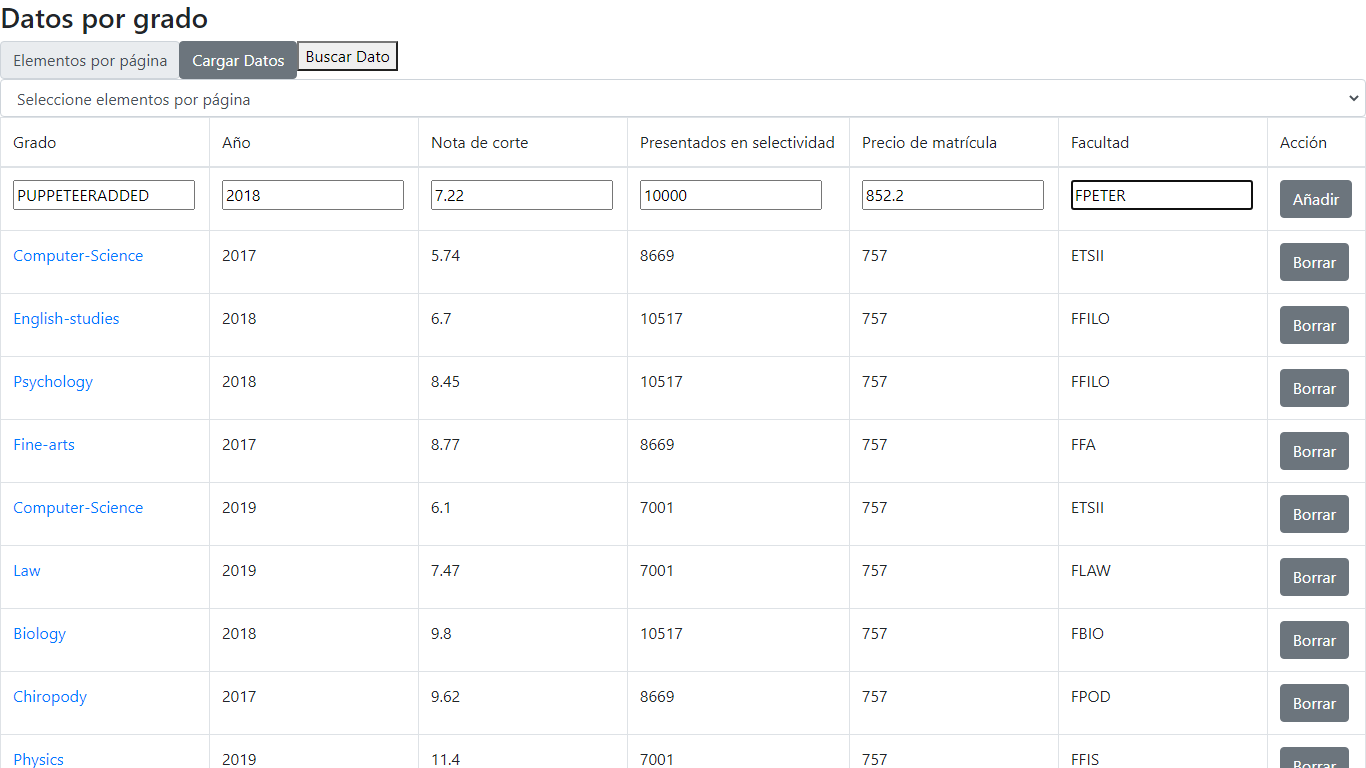
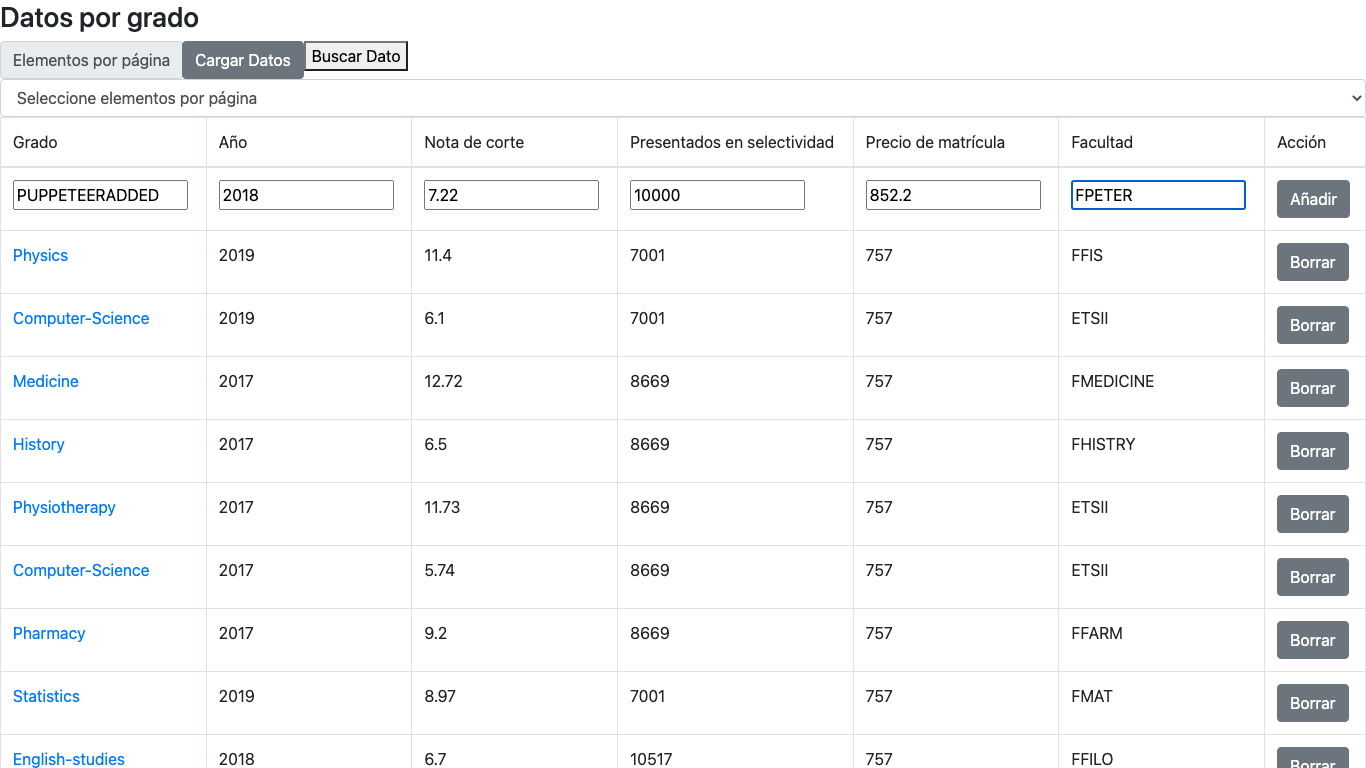
No longer saves dbs to files

diff --git a/src/budgetsAPI/budgets-by-centers-usINT.js b/src/budgetsAPI/budgets-by-centers-usINT.js
@@ -5,7 +5,7 @@ var express = require("express");
 var Datastore = require("nedb");
 
 // Inicializamos la base de datos. PERSISTANCE F06.4
-var dbBudgetsByCenters = new Datastore({ filename: 'dbs/budgetsDB' });
+var dbBudgetsByCenters = new Datastore();
 	dbBudgetsByCenters.loadDatabase(function (err) {    // Callback is optional
   	// Now commands will be executed
 });

diff --git a/src/budgetsAPI/budgets-by-centers-usV1.js b/src/budgetsAPI/budgets-by-centers-usV1.js
@@ -5,7 +5,7 @@ var express = require("express");
 var Datastore = require("nedb");
 
 // Inicializamos la base de datos. PERSISTANCE F06.4
-var dbBudgetsByCenters = new Datastore({ filename: 'dbs/budgetsDB' });
+var dbBudgetsByCenters = new Datastore();
 	dbBudgetsByCenters.loadDatabase(function (err) {    // Callback is optional
   	// Now commands will be executed
 });

diff --git a/src/budgetsAPI/budgets-by-centers-usV2.js b/src/budgetsAPI/budgets-by-centers-usV2.js
@@ -5,7 +5,7 @@ var express = require("express");
 var Datastore = require("nedb");
 
 // Inicializamos la base de datos. PERSISTANCE F06.4
-var dbBudgetsByCenters = new Datastore({ filename: 'dbs/budgetsDB' });
+var dbBudgetsByCenters = new Datastore();
 	dbBudgetsByCenters.loadDatabase(function (err) {    // Callback is optional
   	// Now commands will be executed
 });
